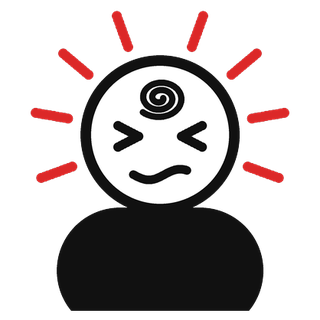
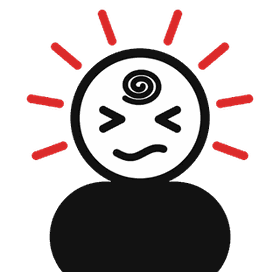
Imagens otimizadas (PageSpeed)
- Pictogramas redimensionados para o tamanho exibido (280px na tela inicial, 320px nas
  instruções) e otimizados: de 256 KB para cerca de 39 KB, sem perda visível
- Originais guardados em simbolos/originais/
- Logo do rodapé em versão de 64px (icon-64.png)

Claude-Session: https://claude.ai/code/session_01UvW37g1qt7uYdtfvh9e4Hi

diff --git a/index.html b/index.html
@@ -366,7 +366,7 @@
   </nav>
 
   <footer class="rodape">
-    <p class="links-rodape"><a href="#sobre"><img class="logo-rodape" src="icon-192.png" alt="">Sobre</a> · <a href="#sobre/plano">Personalize</a><span id="rodape-instalar" hidden> · <a href="#sobre/instalar">Instalar</a></span><span id="rodape-avaliar" hidden> · <a href="#sobre/avaliar">Avaliar</a></span> · <a href="artigos/">Artigos</a></p>
+    <p class="links-rodape"><a href="#sobre"><img class="logo-rodape" src="icon-64.png" alt="" width="24" height="24">Sobre</a> · <a href="#sobre/plano">Personalize</a><span id="rodape-instalar" hidden> · <a href="#sobre/instalar">Instalar</a></span><span id="rodape-avaliar" hidden> · <a href="#sobre/avaliar">Avaliar</a></span> · <a href="artigos/">Artigos</a></p>
     <p class="emergencia">Emergência: <a href="tel:192">192 (SAMU)</a> · Apoio emocional: <a href="tel:188">188 (CVV)</a>, 24h</p>
   </footer>
 </main>

diff --git a/sw.js b/sw.js
@@ -7,12 +7,13 @@
    Só é preciso mexer aqui se você ADICIONAR ou RENOMEAR arquivos:
    atualize a lista ARQUIVOS e aumente o número em VERSAO. */
 
-const VERSAO = "auhug-v34";
+const VERSAO = "auhug-v35";
 const ARQUIVOS = [
   "./",
   "index.html",
   "manifest.webmanifest",
   "icon-192.png",
+  "icon-64.png",
   "icon-512.png",
   "icon-maskable-512.png",
   "apple-touch-icon.png",
